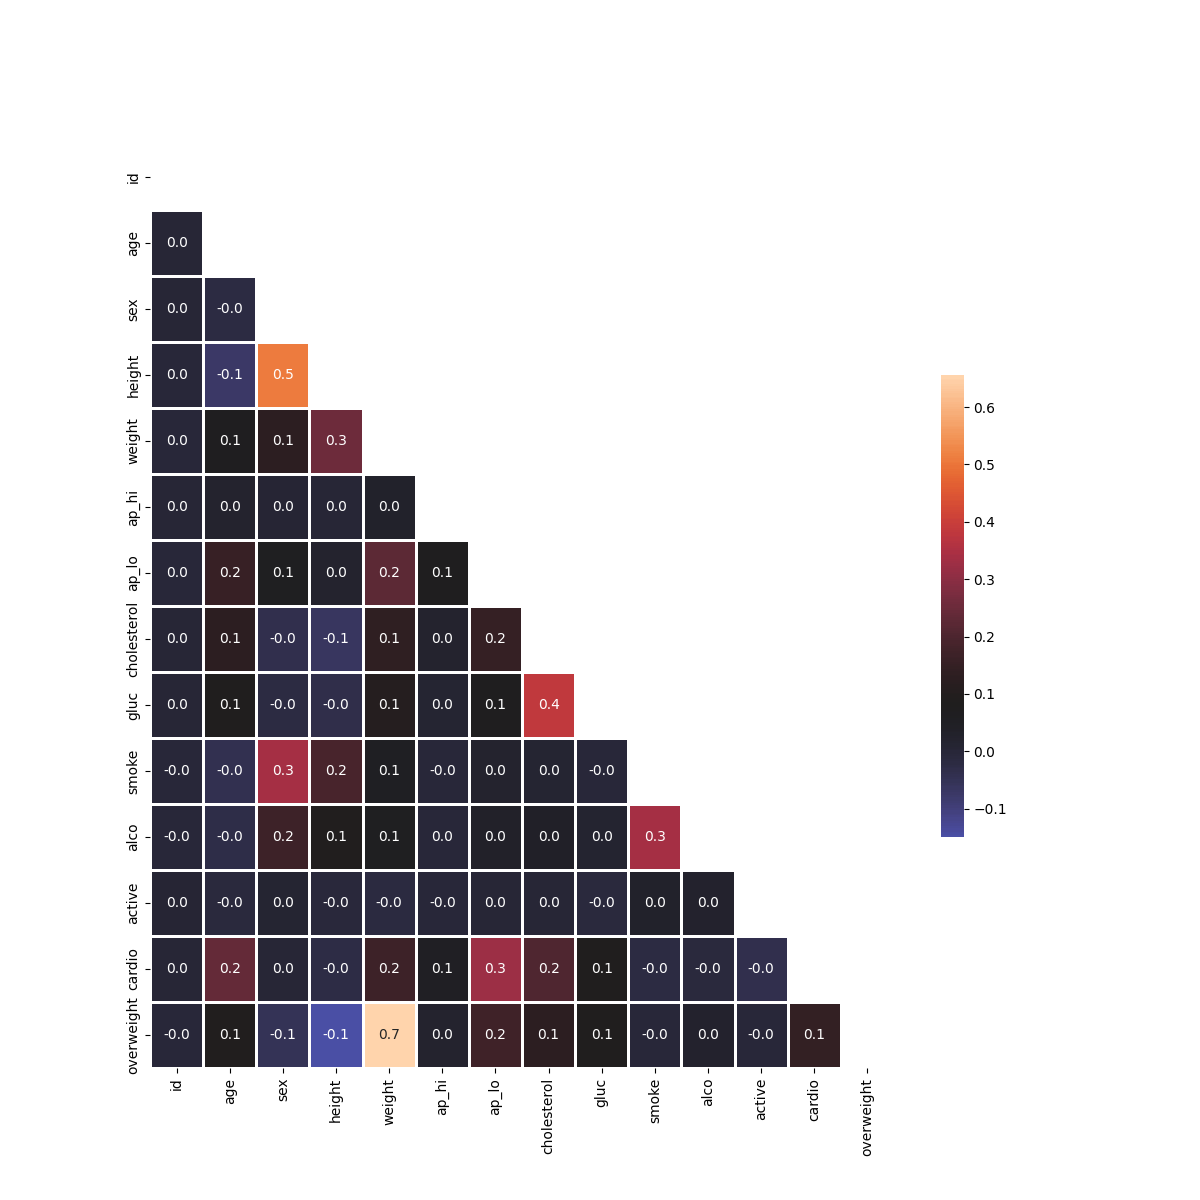
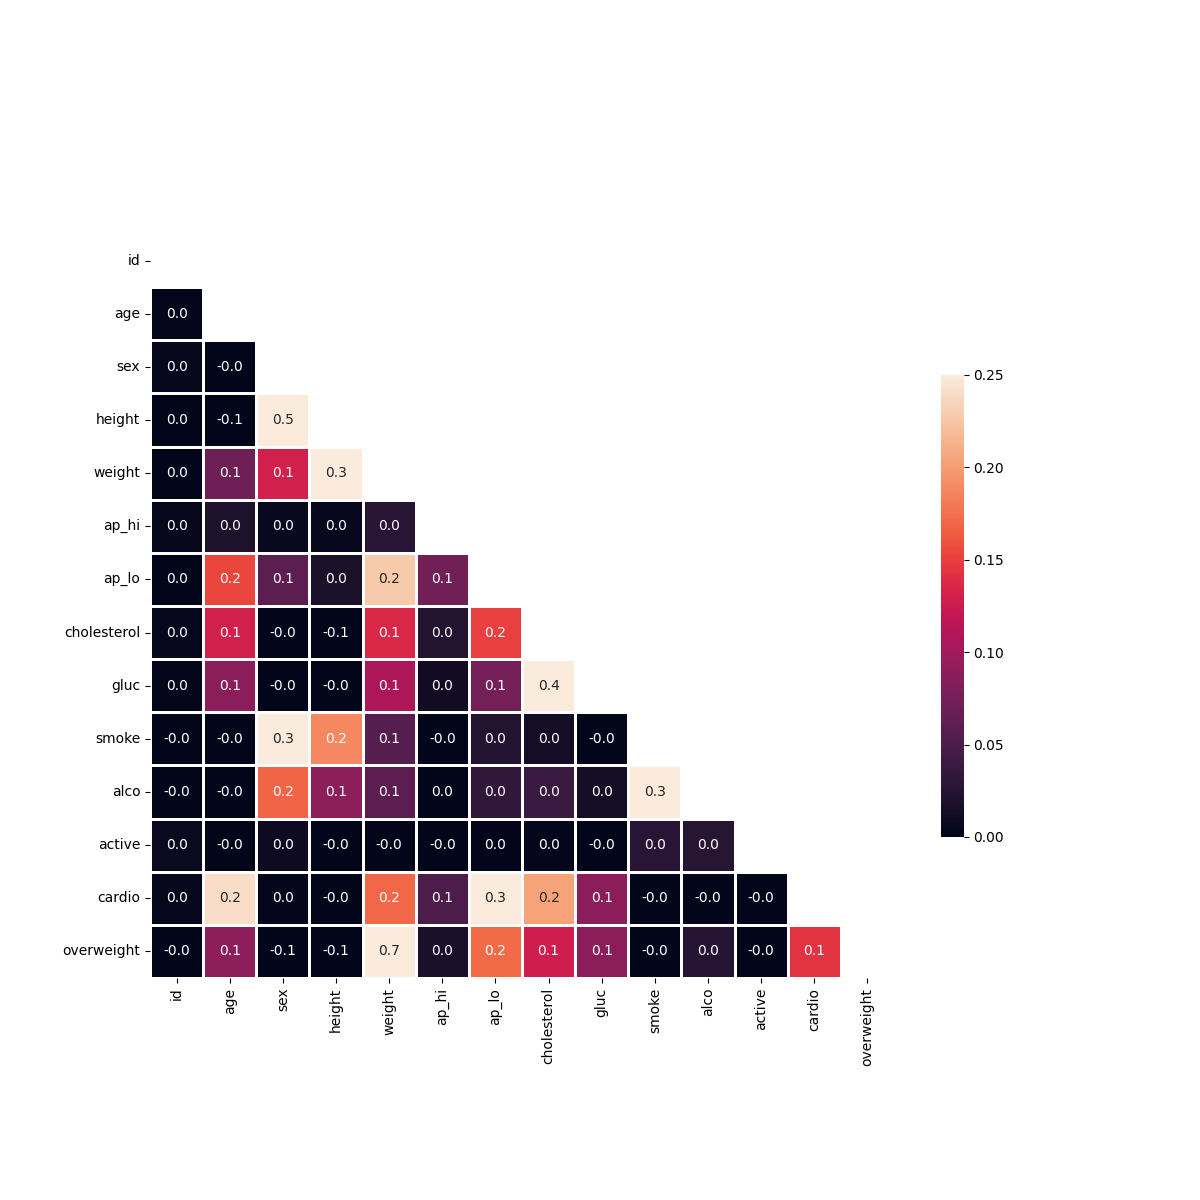
patch for heatmap

Changed region(s): [[0.0617, 0.1542, 0.74, 0.9558], [0.7708, 0.3083, 0.8325, 0.7092]]

diff --git a/Data Analysis with Python Projects/Medical Data Visualizer/medical_data_visualizer.py b/Data Analysis with Python Projects/Medical Data Visualizer/medical_data_visualizer.py
@@ -6,14 +6,14 @@ import numpy as np
 # Import data
 df = pd.read_csv(r"C:\Users\tdeyo\Desktop\Code\FreeCodeCamp\Data Analysis with Python Projects\Medical Data Visualizer\medical_examination.csv")
 
-# get height in meters then squared
-HIM = df['height'] / 100
+# get height in meters
+height_in_meters = df['height'] / 100
 
 # calculate BMI
-BMI = df['weight'] / (HIM ** 2)
+bmi = df['weight'] / (height_in_meters ** 2)
 
 # Add 'overweight' column
-df['overweight'] = (BMI > 25).astype(int)
+df['overweight'] = (bmi > 25).astype(int)
 
 # Normalize data by making 0 always good and 1 always bad. If the value of 'cholesterol' or 'gluc' is 1, make the value 0. If the value is more than 1, make the value 1.
 df['cholesterol'] = df['cholesterol'].apply(lambda x: 0 if x == 1 else 1)
@@ -60,8 +60,7 @@ def draw_heat_map():
     fig, ax = plt.subplots(figsize=(12, 12))
 
     # Draw the heatmap with 'sns.heatmap()'
-    sns.heatmap(corr, linewidths=1, annot=True, mask=mask, fmt='.1f', center=0.08, cbar_kws= {"shrink":0.5})
-
+    ax = sns.heatmap(corr, vmin=0, vmax=0.25, linewidths=.5, square=True, annot=True, mask=mask, fmt='.1f', cbar_kws= {"shrink":0.5})
 
     # Do not modify the next two lines
     fig.savefig('heatmap.png')
